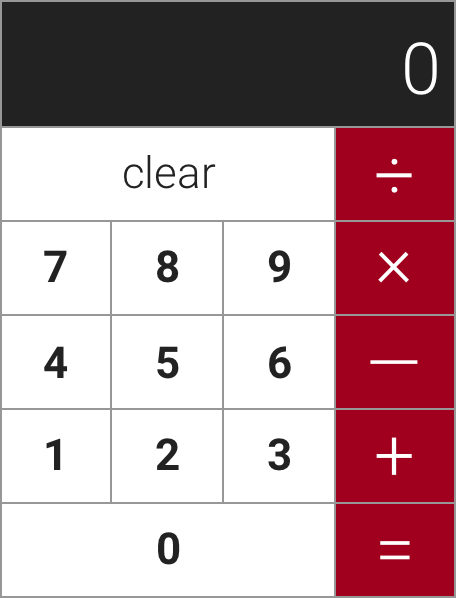
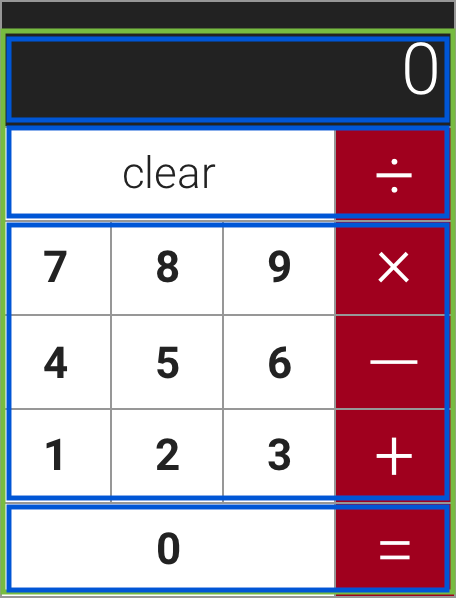
Major changes - Calculator
Created different components for each section (display, clear button section, number section, bottom section). Started working on the NumberButton goal.

Changed region(s): [[0.0, 0.0301, 1.0, 1.0]]

diff --git a/Day-II-Calculator/calculator/src/App.js b/Day-II-Calculator/calculator/src/App.js
@@ -1,21 +1,18 @@
 import React from 'react';
 import './App.css';
+import DisplayContainer from './components/DisplayComponents/DisplayContainer';
+import ClearContainer from './components/ButtonComponents/ClearContainer';
+import NumberContainer from './components/ButtonComponents/NumberContainer';
+import CeroContainer from './components/ButtonComponents/CeroContainer';
 
 const App = () => {
   return (
-    <div>
-      <h3>Welcome to React Calculator</h3>
-      <p>
-        We have given you a starter project. You'll want to build out your
-        components in their respective files, remove this code and replace it
-        with the proper components.
-      </p>
-      <p>
-        <strong>
-          Don't forget to `default export` your components and import them here
-          inside of this file in order to make them work.
-        </strong>
-      </p>
+    <div className="main-container">
+      Main container
+      <DisplayContainer />
+      <ClearContainer />
+      <NumberContainer />
+      <CeroContainer />
     </div>
   );
 };

diff --git a/Day-II-Calculator/calculator/src/components/ButtonComponents/NumberContainer.js b/Day-II-Calculator/calculator/src/components/ButtonComponents/NumberContainer.js
@@ -1,0 +1,16 @@
+import React from 'react';
+import './Button.css';
+import NumberButton from './NumberButton';
+
+const NumberContainer = () => {
+    return (
+        <div className="number-container">
+            This is the numbers container
+            <NumberButton text="1"/>
+            <NumberButton text="2"/>
+            <NumberButton text="3"/>
+        </div>
+    );
+};
+
+export default NumberContainer;

diff --git a/Day-II-Calculator/calculator/src/components/ButtonComponents/NumberButton.js b/Day-II-Calculator/calculator/src/components/ButtonComponents/NumberButton.js
@@ -1,2 +1,15 @@
 import React from 'react';
 import './Button.css';
+
+const NumberButton = props => {
+    return (
+        <button className={props.buttonStyle}>{props.text}</button>
+    );
+};
+
+NumberButton.defaultProps = {
+    text: 'Default Text'
+};
+
+export default NumberButton;
+

diff --git a/Day-II-Calculator/calculator/src/components/DisplayComponents/DisplayContainer.js b/Day-II-Calculator/calculator/src/components/DisplayComponents/DisplayContainer.js
@@ -1,0 +1,12 @@
+import React from 'react';
+import './Display.css';
+
+const CalculatorDisplay = () => {
+    return (
+        <div className="calculator-display">
+            This is the display container
+        </div>
+    );
+};
+
+export default CalculatorDisplay;

diff --git a/Day-II-Calculator/calculator/src/components/ButtonComponents/ClearContainer.js b/Day-II-Calculator/calculator/src/components/ButtonComponents/ClearContainer.js
@@ -1,0 +1,12 @@
+import React from 'react';
+import './Button.css';
+
+const ClearContainer = () => {
+    return (
+        <div className="clear-container">
+            This is the clear container
+        </div>
+    );
+};
+
+export default ClearContainer;

diff --git a/Day-II-Calculator/calculator/src/components/ButtonComponents/CeroContainer.js b/Day-II-Calculator/calculator/src/components/ButtonComponents/CeroContainer.js
@@ -1,0 +1,12 @@
+import React from 'react';
+import './Button.css';
+
+const CeroContainer = () => {
+    return (
+        <div className="cero-container">
+            This is the cero container
+        </div>
+    );
+};
+
+export default CeroContainer;

diff --git a/Day-II-Calculator/calculator/src/components/ButtonComponents/Button.css b/Day-II-Calculator/calculator/src/components/ButtonComponents/Button.css
@@ -1,0 +1,11 @@
+.clear-container {
+    border: 1px solid red;
+}
+
+.number-container {
+    border: 1px solid gray;
+}
+
+.cero-container {
+    border: 1px solid green;
+}

diff --git a/Day-II-Calculator/calculator/src/App.css b/Day-II-Calculator/calculator/src/App.css
@@ -1,0 +1,4 @@
+.main-container {
+    border: 1px solid black;
+    max-width: 800px;
+}

diff --git a/Day-II-Calculator/calculator/src/components/DisplayComponents/Display.css b/Day-II-Calculator/calculator/src/components/DisplayComponents/Display.css
@@ -1,0 +1,3 @@
+.calculator-display {
+    border: 1px solid blue;
+}
